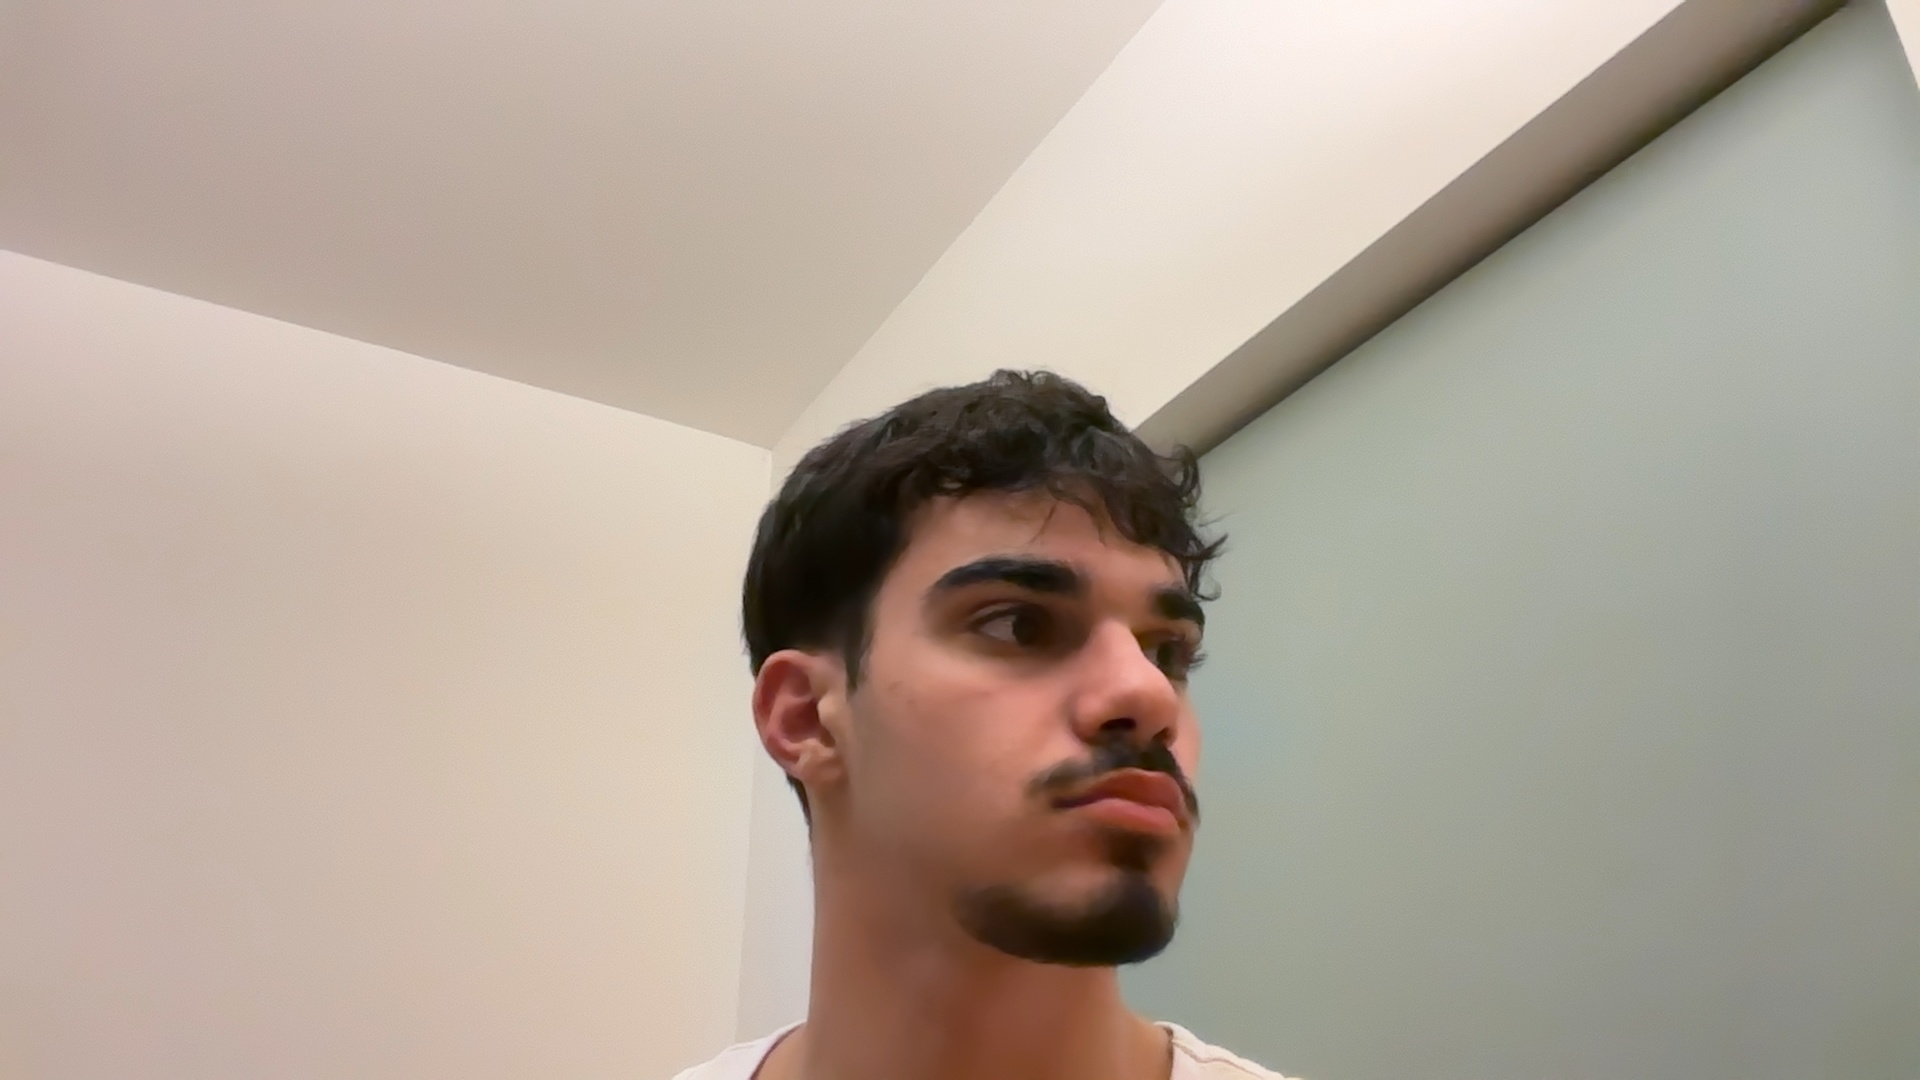
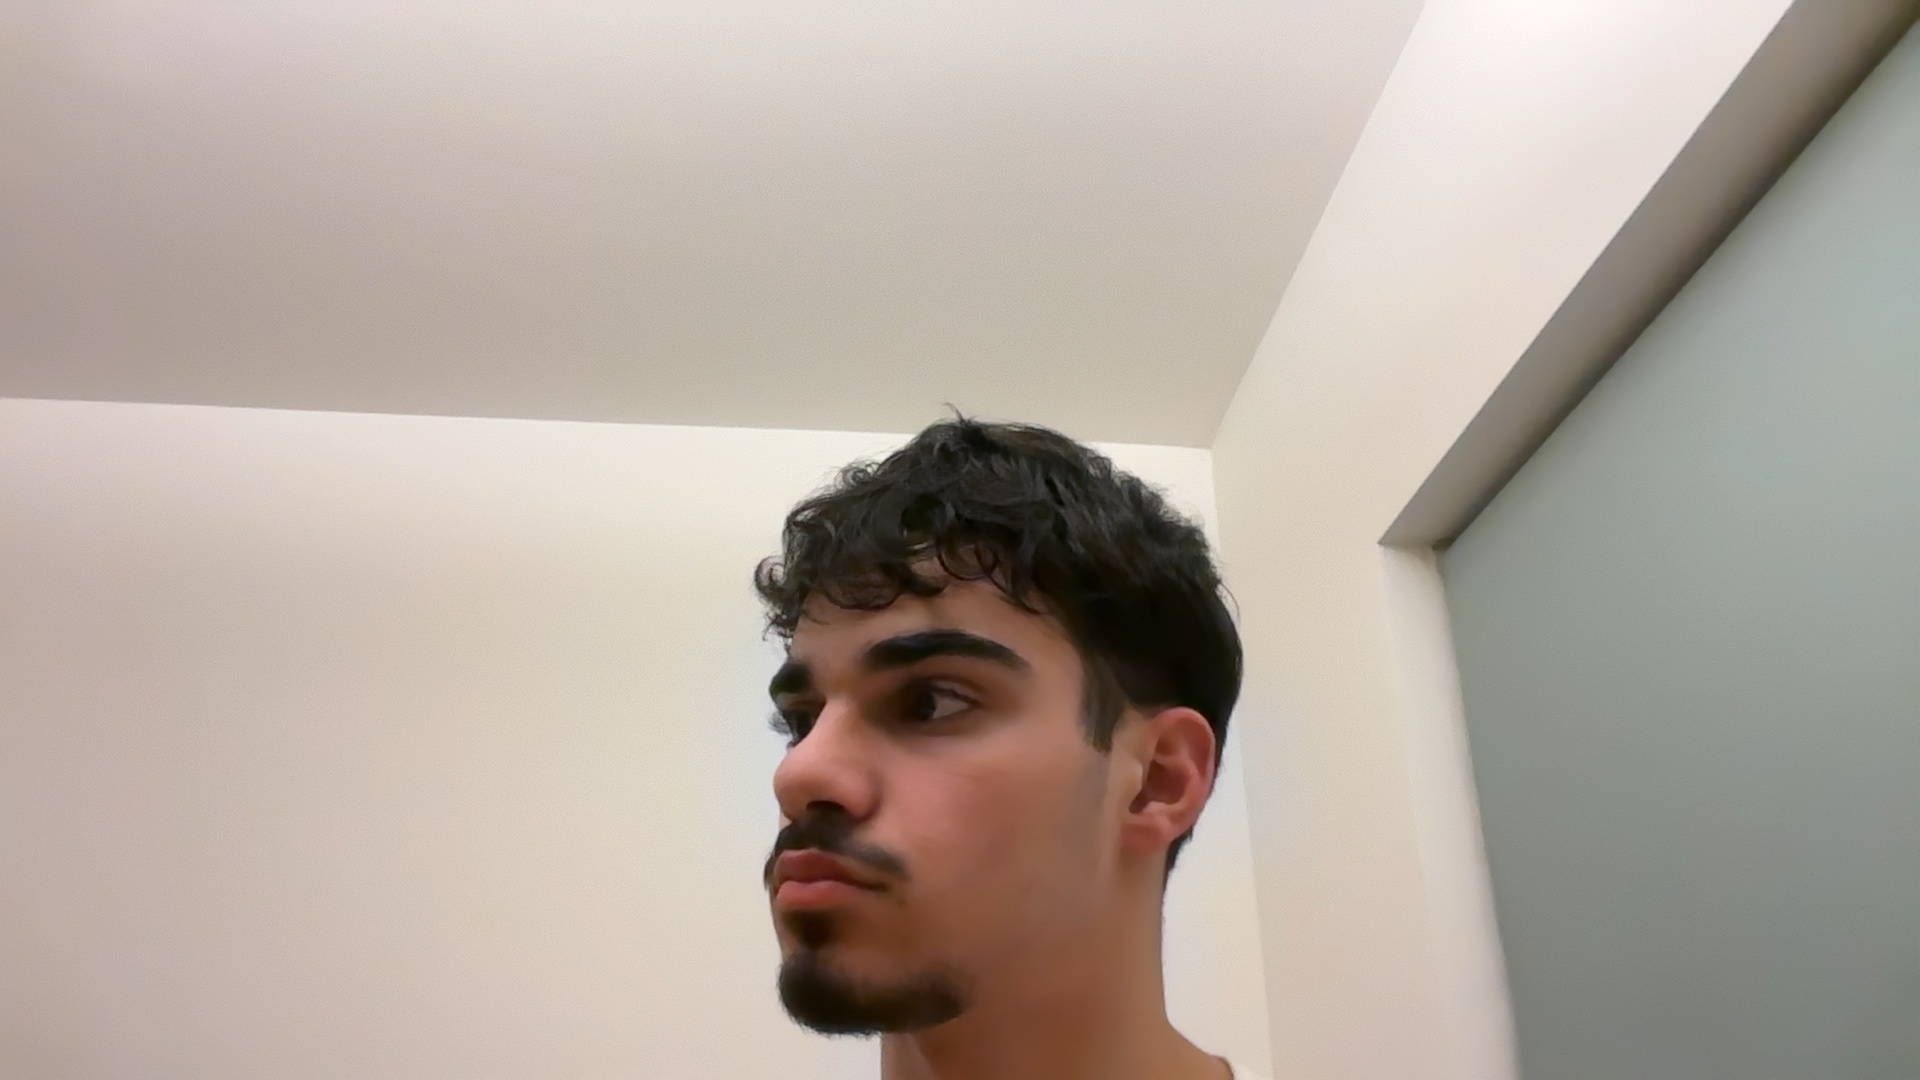
new photos

diff --git a/camera.py b/camera.py
@@ -26,16 +26,16 @@ try:
         if not ret:
             print("Failed to capture image")
             break
-
-        file_index = capture_count % 5
-        filename = os.path.join(save_folder, f"photo_{file_index}.jpg")
-
-        cv2.imwrite(filename, frame)
-        print(f"Saved: {filename}")
-
-        capture_count += 1
-        time.sleep(5)
         
+        if now - last_run >= interval:
+            file_index = capture_count % 5
+            filename = os.path.join(save_folder, f"photo_{file_index}.jpg")
+
+            cv2.imwrite(filename, frame)
+            print(f"Saved: {filename}")
+
+            capture_count += 1
+            last_run = now
         '''
         change sleep to non blocking code pls, so that we can capture images while the main.py is running and analyzing the images.
         we can use time.time() to check the elapsed time and capture images every 5 seconds
